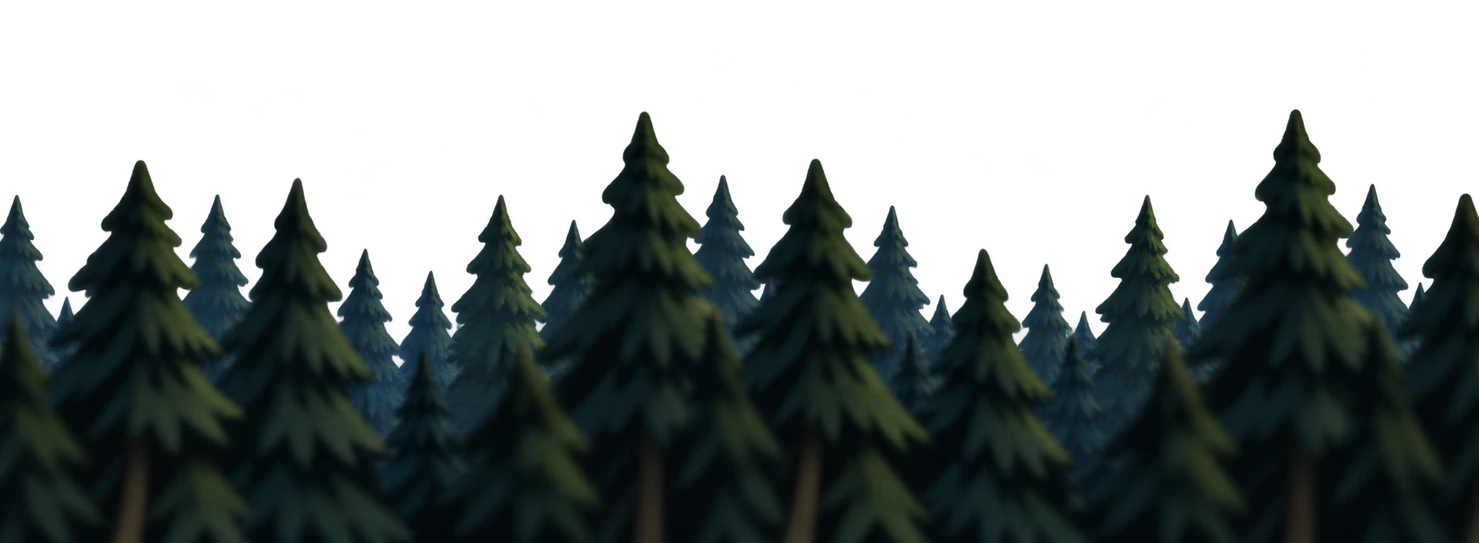
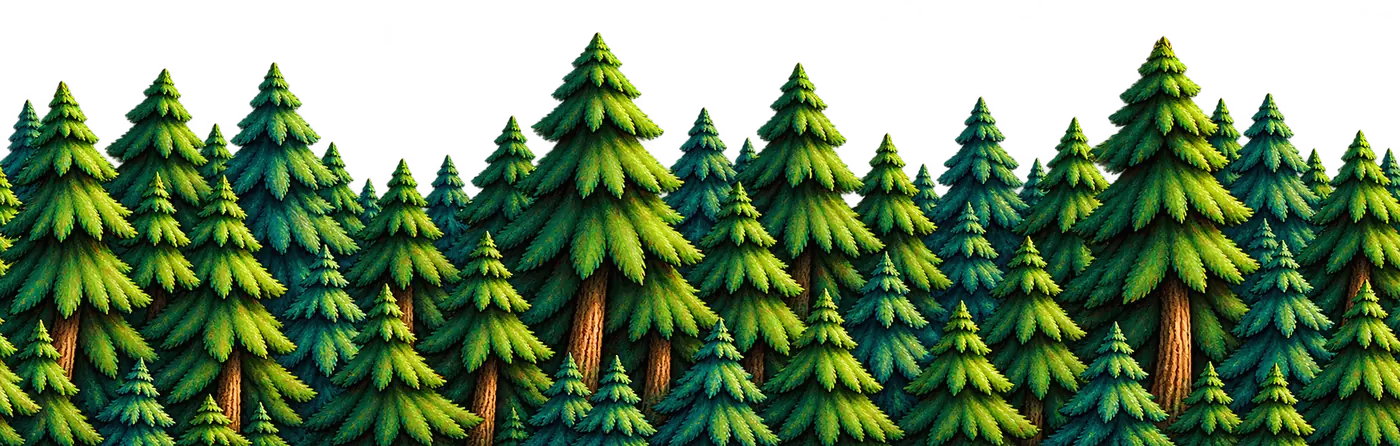
The owner's bright repeatable pines, with the blur and distance haze added in code
trees-front(-2).webp are now the owner's new reapeatable-trees(2).png: bright and sharp, matching the island trees
(cropped to the solid forest and resized to 1400 px). The depth used to be painted in; now it's added where needed.
The layers between the tracks get the sky's haze for the far track's distance, less for each nearer row, and a little
softness. The foreground rows stay sharp near the track and go out of focus toward the lens. Each look is drawn once
and cached.

diff --git a/src/game/platformer/render.ts b/src/game/platformer/render.ts
@@ -1113,8 +1113,11 @@ function betweenTrees(ctx: CanvasRenderingContext2D, game: Game, cam: PlatformCa
   ctx.setTransform(dpr, 0, 0, dpr, 0, 0);
   ctx.globalAlpha = vn.alpha;
   const rows = [{ drop: 70, h: 170 }, { drop: 120, h: 185 }, { drop: 170, h: 200 }];
+  // distance: hazed like the track behind them (a little less for each nearer row) and softly out of focus
+  const between = (i: number) => ({ haze: (0.12 + vf.fog * 0.75) * (1 - i * 0.18), blur: 1 + vf.blur * 1.2 - i * 0.4 });
   rows.forEach((r, i) => {
-    const pines = hazePines(img, 0, (i + far) % 2 === 0);
+    const look = between(i);
+    const pines = hazePines(img, look.haze, (i + far) % 2 === 0, look.blur);
     const height = r.h * sp, rw = aspect * height;
     const n = Math.max(1, Math.ceil(rw / PINE_SLICE)), sw = rw / n, srcW = pines.c.width / n;
     const scroll = st!.scrolls[far] * (1 + i * 0.04);
@@ -1122,7 +1125,7 @@ function betweenTrees(ctx: CanvasRenderingContext2D, game: Game, cam: PlatformCa
     const start = tileStart(cam, `b${far}:${i}`, scroll, rw, cw);
     for (let rx = start.x, id = start.id; rx < cw; rx += rw, id++) {
       const tile = pineTile(id, `b${far}:${i}`, (i + far) % 2 === 0);
-      const art = hazePines(tile.img, 0, tile.flip);
+      const art = hazePines(tile.img, look.haze, tile.flip, look.blur);
       for (let k = 0; k < n; k++) {
         const sx = rx + k * sw;
         if (sx > cw || sx + sw < 0) continue;
@@ -1210,6 +1213,8 @@ function pineRow(i: number): { p: number; h: number; drop: number } {
   return { p: front.p + 0.08 * k, h: front.h + 35 * k, drop: front.drop + 18 * k };
 }
 const PINE_ALL = PINE_ROWS.length + PINE_EXTRA;
+/** How out of focus a foreground row at depth p is (px at the art's size): sharp near the track, soft near the lens. */
+const pineBlur = (p: number) => Math.max(0, (p - 1.15) * 7);
 /** How wide (screen px) each upright slice of a row is when it follows the slope: narrow enough that the steps vanish. */
 const PINE_SLICE = 24;
 
@@ -1291,12 +1296,15 @@ function cliffLineY(plan: CoursePlan, focus: number, x: number): number | null {
 const FG_TRACK_BELOW = 15;
 
 /**
- * The front pines washed with evening haze (mirrored for every other row, so the rows never line up), drawn once per
- * strength; `floor` is the colour of their feet, for the band under them.
+ * The owner's pines (bright and sharp as painted), mirrored for every other row so the rows never line up, washed with
+ * distance haze (0..1, the sky's colour) and softened by `blur` (px at the art's size) for their depth: the layers
+ * between the tracks are hazed and a little soft, the foreground rows nearest the lens are out of focus. Drawn once
+ * per combination (both are rounded, so there are few); `floor` is the colour of their feet, for the band under them.
  */
 const hazeCache = new Map<string, { img: HTMLImageElement; c: HTMLCanvasElement; floor: string }>();
-function hazePines(img: HTMLImageElement, haze: number, flip: boolean): { c: HTMLCanvasElement; floor: string } {
-  const key = img.src + haze + (flip ? 'f' : '');
+function hazePines(img: HTMLImageElement, hazeIn: number, flip: boolean, blurIn = 0): { c: HTMLCanvasElement; floor: string } {
+  const haze = Math.round(Math.max(0, Math.min(0.8, hazeIn)) * 20) / 20, blur = Math.round(Math.max(0, Math.min(8, blurIn)));
+  const key = img.src + haze + ':' + blur + (flip ? 'f' : '');
   const hit = hazeCache.get(key);
   if (hit?.img === img) return hit;
   const c = document.createElement('canvas');
@@ -1305,9 +1313,24 @@ function hazePines(img: HTMLImageElement, haze: number, flip: boolean): { c: HTM
   if (!flip) { g.translate(c.width, 0); g.scale(-1, 1); }
   g.drawImage(img, 0, 0);
   g.setTransform(1, 0, 0, 1, 0, 0);
-  g.globalCompositeOperation = 'source-atop';
-  g.fillStyle = `rgba(70,100,120,${haze})`; // 0: the owner wants no haze (kept for tuning)
-  g.fillRect(0, 0, c.width, c.height);
+  if (haze > 0) {
+    g.globalCompositeOperation = 'source-atop';
+    g.fillStyle = `rgba(${HAZE},${haze})`;
+    g.fillRect(0, 0, c.width, c.height);
+    g.globalCompositeOperation = 'source-over';
+  }
+  if (blur > 0) {
+    // soft focus: shrink and grow back (works on every browser, unlike a canvas filter)
+    const k = 1 / (1 + blur * 0.5);
+    const small = document.createElement('canvas');
+    small.width = Math.max(1, Math.round(c.width * k)); small.height = Math.max(1, Math.round(c.height * k));
+    const sg = small.getContext('2d')!;
+    sg.imageSmoothingQuality = 'high';
+    sg.drawImage(c, 0, 0, small.width, small.height);
+    g.clearRect(0, 0, c.width, c.height);
+    g.imageSmoothingQuality = 'high';
+    g.drawImage(small, 0, 0, c.width, c.height);
+  }
   // the average colour of the solid pixels along the bottom
   let r = 0, gr = 0, bl = 0, n = 0;
   try {
@@ -1406,7 +1429,9 @@ function foreground(ctx: CanvasRenderingContext2D, cam: PlatformCamera, cw: numb
     prev = { top, height };
     if (top >= ch) continue;
     // every other row mirrored, so neighbouring rows never line up (the front row is the art as painted)
-    const pines = hazePines(img, 0, (PINE_ROWS.length - 1 - i) % 2 === 0);
+    // in front of the track: no haze; the rows nearest the lens are out of focus
+    const focus = pineBlur(r.p);
+    const pines = hazePines(img, 0, (PINE_ROWS.length - 1 - i) % 2 === 0, focus);
     const rw = aspect * height;
     ctx.globalAlpha = alpha;
     // under the row, a band in its own darkest colour to the screen's bottom (the rows in front cover the rest), so no
@@ -1416,7 +1441,7 @@ function foreground(ctx: CanvasRenderingContext2D, cam: PlatformCamera, cw: numb
     const start = tileStart(cam, `f${i}`, scrolls[i], rw, cw);
     for (let rx = start.x, id = start.id; rx < cw; rx += rw, id++) {
       const tile = pineTile(id, `f${i}`, (PINE_ROWS.length - 1 - i) % 2 === 0);
-      const art = hazePines(tile.img, 0, tile.flip);
+      const art = hazePines(tile.img, 0, tile.flip, focus);
       for (let k = 0; k < n; k++) {
         const sx = rx + k * sw;
         if (sx > cw || sx + sw < 0) continue;
